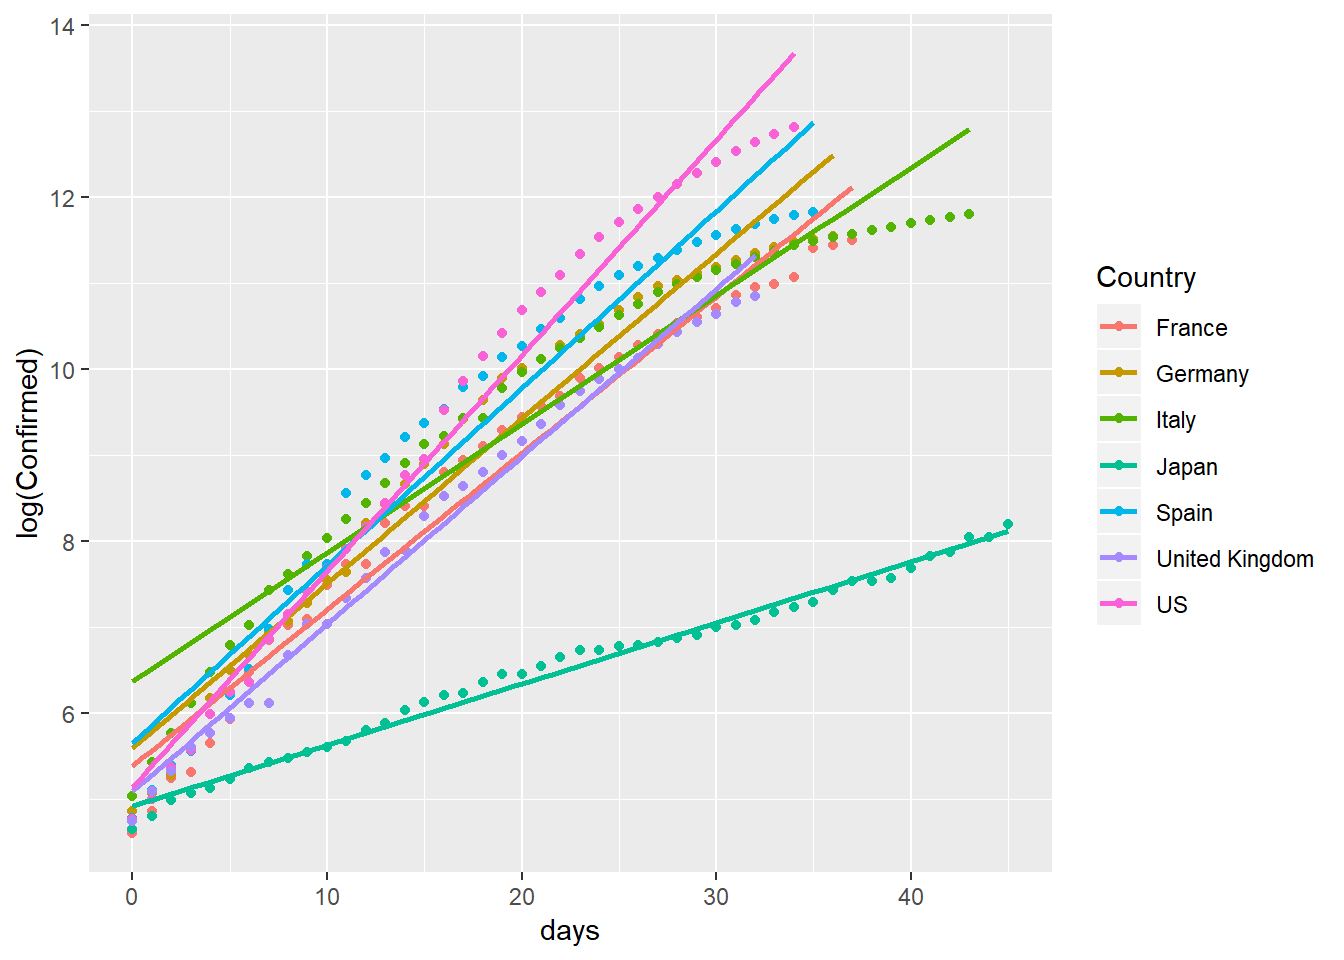
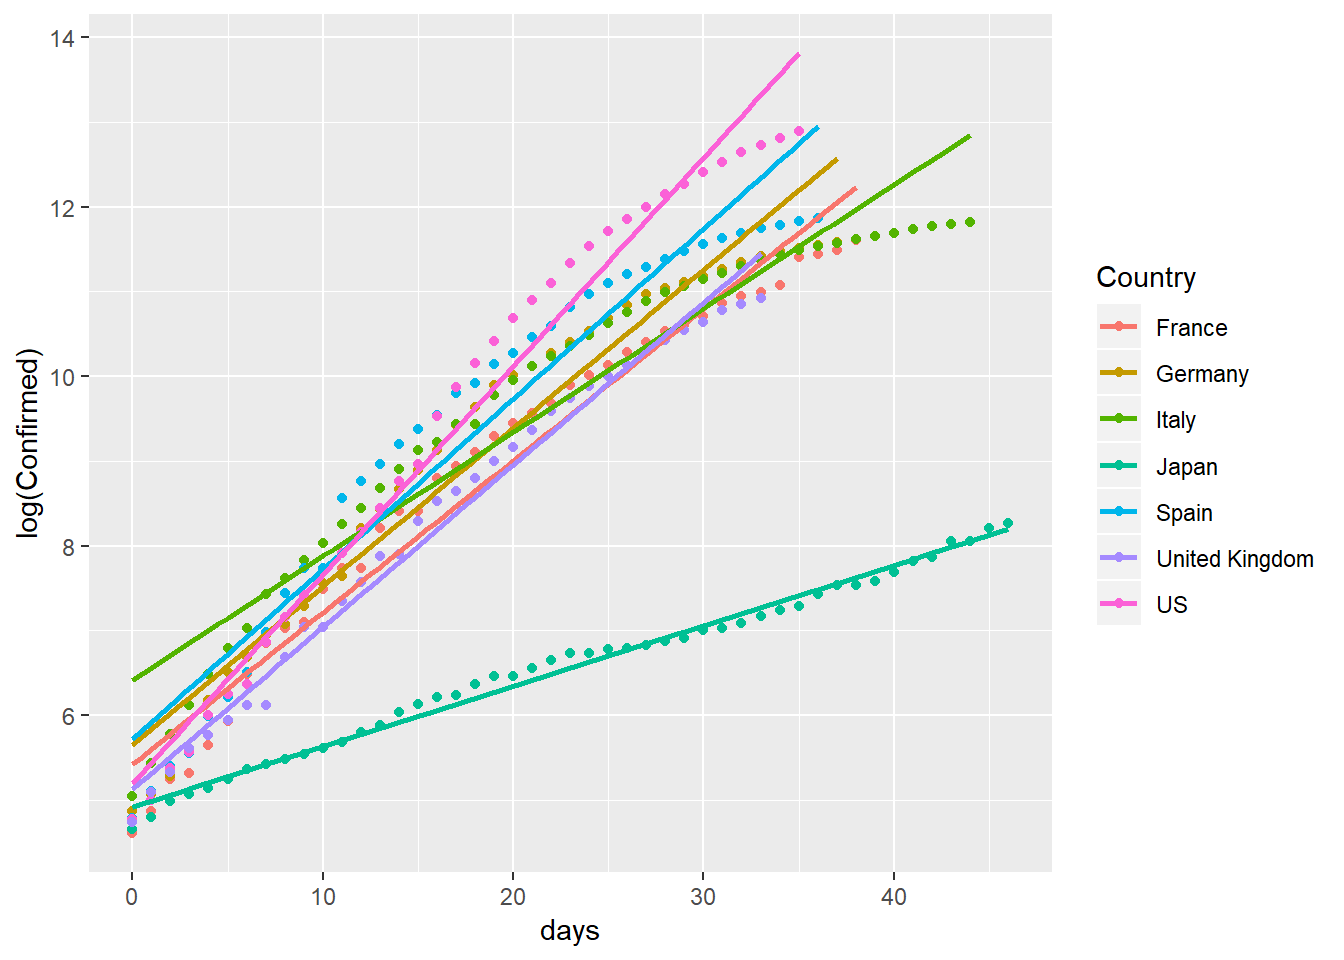
from rstudio

diff --git a/content/post/2020-04-08-coronavirus-japan.html b/content/post/2020-04-08-coronavirus-japan.html
@@ -14,7 +14,7 @@ tags:
 <h1>感染上位国の感染者数増加率</h1>
 <p>感染者数の増加を、イタリア、スペイン、アメリカ、フランス、イギリス、イギリス（感染者数上位国）
 と日本とを比較する。</p>
-<p>モデルは次の通りである。感染者数 <span class="math inline">\(y_t\)</span> を日付 <span class="math inline">\(t\)</span> に対する増加関数と考える。すなわち、時間増分<span class="math inline">\(dt\)</span>当たりの感染者数の増分は<span class="math inline">\(dy_t\)</span>であり、ここで感染者数の増加率を <span class="math inline">\(dy_t/dt \over y_t\)</span> と表す。感染者数の増加率を一定<span class="math inline">\(b\)</span>と仮定する。このとき、次式が成立する。
+<p>モデルは次の通りである。感染者数 <span class="math inline">\(y_t\)</span> を日付 <span class="math inline">\(t\)</span> の増加関数と考える。すなわち、時間増分<span class="math inline">\(dt\)</span>当たりの感染者数の増分は<span class="math inline">\(dy_t\)</span>であり、ここで感染者数の増加率を <span class="math inline">\(dy_t/dt \over y_t\)</span> と表す。感染者数の増加率を一定<span class="math inline">\(b\)</span>と仮定する。このとき、次式が成立する。
 <span class="math display">\[
 {dy_t/dt \over y_t} =b
 \]</span>
@@ -35,7 +35,7 @@ tags:
 <span class="math display">\[
 y_T=y_0 \exp(bT)
 \]</span>
-時間の経過で増加する感染者数の初期値<span class="math inline">\(y_0\)</span>に対し、<span class="math inline">\(T\)</span>時間が経過後の感染者数は<span class="math inline">\(y_T\)</span>である。この式を適用が許されれば、 <span class="math inline">\(\log y_T=\log y_0+bt\)</span> と変換できる。<span class="math inline">\(b\)</span>は増加率を表し、<span class="math inline">\(\log y_T\)</span>と<span class="math inline">\(T\)</span> との間に直線関係が見られれば、およそ増加率は一定と考えてよい。</p>
+時間の経過で増加する感染者数の初期値<span class="math inline">\(y_0\)</span>に対し、<span class="math inline">\(T\)</span>時間が経過後の感染者数は<span class="math inline">\(y_T\)</span>である。この式の適用が許されれば、 <span class="math inline">\(\log y_T=\log y_0+bt\)</span> と変換できる。<span class="math inline">\(b\)</span>は増加率を表し、<span class="math inline">\(\log y_T\)</span>と<span class="math inline">\(T\)</span> との間に直線関係が見られれば、およそ増加率は一定と考えてよい。</p>
 </div>
 <div id="section-1" class="section level1">
 <h1>時間経過と感染者数の対数値</h1>
@@ -68,23 +68,23 @@ summary(mf)</code></pre>
 ## Call:
 ## plm(formula = log(Confirmed) ~ days, data = c19p, model = &quot;within&quot;)
 ## 
-## Unbalanced Panel: n = 6, T = 33-44, N = 223
+## Unbalanced Panel: n = 6, T = 34-45, N = 229
 ## 
 ## Residuals:
 ##     Min.  1st Qu.   Median  3rd Qu.     Max. 
-## -1.84979 -0.34789  0.10270  0.45815  0.79941 
+## -1.89198 -0.36795  0.12215  0.46747  0.82002 
 ## 
 ## Coefficients:
 ##       Estimate Std. Error t-value  Pr(&gt;|t|)    
-## days 0.1889147  0.0034651   54.52 &lt; 2.2e-16 ***
+## days 0.1853121  0.0034373  53.912 &lt; 2.2e-16 ***
 ## ---
 ## Signif. codes:  0 &#39;***&#39; 0.001 &#39;**&#39; 0.01 &#39;*&#39; 0.05 &#39;.&#39; 0.1 &#39; &#39; 1
 ## 
-## Total Sum of Squares:    1008
-## Residual Sum of Squares: 68.285
-## R-Squared:      0.93225
-## Adj. R-Squared: 0.93037
-## F-statistic: 2972.39 on 1 and 216 DF, p-value: &lt; 2.22e-16</code></pre>
+## Total Sum of Squares:    1052.5
+## Residual Sum of Squares: 74.688
+## R-Squared:      0.92904
+## Adj. R-Squared: 0.92712
+## F-statistic: 2906.52 on 1 and 222 DF, p-value: &lt; 2.22e-16</code></pre>
 <p>推定結果では、増加率<span class="math inline">\(b\)</span>の推定値は0.19であり、過去のデータから平均的には毎日19パーセントの勢いで新規感染者が増えていると考えられる。</p>
 <p>#　日本の感染増加率の推定</p>
 <p>次いで、日本のデータに限って<span class="math inline">\(b\)</span>の推定を行う。推定結果は次の通りである。</p>
@@ -97,18 +97,18 @@ summary(mj)</code></pre>
 ## 
 ## Residuals:
 ##      Min       1Q   Median       3Q      Max 
-## -0.27089 -0.07220 -0.01655  0.08174  0.18582 
+## -0.26775 -0.07161 -0.01753  0.07613  0.18498 
 ## 
 ## Coefficients:
 ##             Estimate Std. Error t value Pr(&gt;|t|)    
-## (Intercept) 4.924854   0.030281  162.64   &lt;2e-16 ***
-## days        0.071012   0.001159   61.27   &lt;2e-16 ***
+## (Intercept) 4.921708   0.029808   165.1   &lt;2e-16 ***
+## days        0.071222   0.001116    63.8   &lt;2e-16 ***
 ## ---
 ## Signif. codes:  0 &#39;***&#39; 0.001 &#39;**&#39; 0.01 &#39;*&#39; 0.05 &#39;.&#39; 0.1 &#39; &#39; 1
 ## 
-## Residual standard error: 0.1044 on 44 degrees of freedom
-## Multiple R-squared:  0.9884, Adjusted R-squared:  0.9882 
-## F-statistic:  3753 on 1 and 44 DF,  p-value: &lt; 2.2e-16</code></pre>
+## Residual standard error: 0.1038 on 45 degrees of freedom
+## Multiple R-squared:  0.9891, Adjusted R-squared:  0.9888 
+## F-statistic:  4070 on 1 and 45 DF,  p-value: &lt; 2.2e-16</code></pre>
 <p>日本のデータからは、感染者数の増加率<span class="math inline">\(b\)</span>は0.07と推定される。これは欧米の4割程度の大きさであり、その理由は私には分からない。日本人と欧米人との間に社会動態の違いがあるか、あるいは欧米に比べ日本の検査数が少ないことと関係するのか、いくつか探るべき理由はあると思われる。</p>
 </div>
 <div id="section-3" class="section level1">

diff --git a/public/post/2020/04/08/forecast-coronavirus-spread/index.html b/public/post/2020/04/08/forecast-coronavirus-spread/index.html
@@ -39,7 +39,7 @@
 <h1>感染上位国の感染者数増加率</h1>
 <p>感染者数の増加を、イタリア、スペイン、アメリカ、フランス、イギリス、イギリス（感染者数上位国）
 と日本とを比較する。</p>
-<p>モデルは次の通りである。感染者数 <span class="math inline">\(y_t\)</span> を日付 <span class="math inline">\(t\)</span> に対する増加関数と考える。すなわち、時間増分<span class="math inline">\(dt\)</span>当たりの感染者数の増分は<span class="math inline">\(dy_t\)</span>であり、ここで感染者数の増加率を <span class="math inline">\(dy_t/dt \over y_t\)</span> と表す。感染者数の増加率を一定<span class="math inline">\(b\)</span>と仮定する。このとき、次式が成立する。
+<p>モデルは次の通りである。感染者数 <span class="math inline">\(y_t\)</span> を日付 <span class="math inline">\(t\)</span> の増加関数と考える。すなわち、時間増分<span class="math inline">\(dt\)</span>当たりの感染者数の増分は<span class="math inline">\(dy_t\)</span>であり、ここで感染者数の増加率を <span class="math inline">\(dy_t/dt \over y_t\)</span> と表す。感染者数の増加率を一定<span class="math inline">\(b\)</span>と仮定する。このとき、次式が成立する。
 <span class="math display">\[
 {dy_t/dt \over y_t} =b
 \]</span>
@@ -60,7 +60,7 @@
 <span class="math display">\[
 y_T=y_0 \exp(bT)
 \]</span>
-時間の経過で増加する感染者数の初期値<span class="math inline">\(y_0\)</span>に対し、<span class="math inline">\(T\)</span>時間が経過後の感染者数は<span class="math inline">\(y_T\)</span>である。この式を適用が許されれば、 <span class="math inline">\(\log y_T=\log y_0+bt\)</span> と変換できる。<span class="math inline">\(b\)</span>は増加率を表し、<span class="math inline">\(\log y_T\)</span>と<span class="math inline">\(T\)</span> との間に直線関係が見られれば、およそ増加率は一定と考えてよい。</p>
+時間の経過で増加する感染者数の初期値<span class="math inline">\(y_0\)</span>に対し、<span class="math inline">\(T\)</span>時間が経過後の感染者数は<span class="math inline">\(y_T\)</span>である。この式の適用が許されれば、 <span class="math inline">\(\log y_T=\log y_0+bt\)</span> と変換できる。<span class="math inline">\(b\)</span>は増加率を表し、<span class="math inline">\(\log y_T\)</span>と<span class="math inline">\(T\)</span> との間に直線関係が見られれば、およそ増加率は一定と考えてよい。</p>
 </div>
 <div id="section-1" class="section level1">
 <h1>時間経過と感染者数の対数値</h1>
@@ -93,23 +93,23 @@ summary(mf)</code></pre>
 ## Call:
 ## plm(formula = log(Confirmed) ~ days, data = c19p, model = &quot;within&quot;)
 ## 
-## Unbalanced Panel: n = 6, T = 33-44, N = 223
+## Unbalanced Panel: n = 6, T = 34-45, N = 229
 ## 
 ## Residuals:
 ##     Min.  1st Qu.   Median  3rd Qu.     Max. 
-## -1.84979 -0.34789  0.10270  0.45815  0.79941 
+## -1.89198 -0.36795  0.12215  0.46747  0.82002 
 ## 
 ## Coefficients:
 ##       Estimate Std. Error t-value  Pr(&gt;|t|)    
-## days 0.1889147  0.0034651   54.52 &lt; 2.2e-16 ***
+## days 0.1853121  0.0034373  53.912 &lt; 2.2e-16 ***
 ## ---
 ## Signif. codes:  0 &#39;***&#39; 0.001 &#39;**&#39; 0.01 &#39;*&#39; 0.05 &#39;.&#39; 0.1 &#39; &#39; 1
 ## 
-## Total Sum of Squares:    1008
-## Residual Sum of Squares: 68.285
-## R-Squared:      0.93225
-## Adj. R-Squared: 0.93037
-## F-statistic: 2972.39 on 1 and 216 DF, p-value: &lt; 2.22e-16</code></pre>
+## Total Sum of Squares:    1052.5
+## Residual Sum of Squares: 74.688
+## R-Squared:      0.92904
+## Adj. R-Squared: 0.92712
+## F-statistic: 2906.52 on 1 and 222 DF, p-value: &lt; 2.22e-16</code></pre>
 <p>推定結果では、増加率<span class="math inline">\(b\)</span>の推定値は0.19であり、過去のデータから平均的には毎日19パーセントの勢いで新規感染者が増えていると考えられる。</p>
 <p>#　日本の感染増加率の推定</p>
 <p>次いで、日本のデータに限って<span class="math inline">\(b\)</span>の推定を行う。推定結果は次の通りである。</p>
@@ -122,18 +122,18 @@ summary(mj)</code></pre>
 ## 
 ## Residuals:
 ##      Min       1Q   Median       3Q      Max 
-## -0.27089 -0.07220 -0.01655  0.08174  0.18582 
+## -0.26775 -0.07161 -0.01753  0.07613  0.18498 
 ## 
 ## Coefficients:
 ##             Estimate Std. Error t value Pr(&gt;|t|)    
-## (Intercept) 4.924854   0.030281  162.64   &lt;2e-16 ***
-## days        0.071012   0.001159   61.27   &lt;2e-16 ***
+## (Intercept) 4.921708   0.029808   165.1   &lt;2e-16 ***
+## days        0.071222   0.001116    63.8   &lt;2e-16 ***
 ## ---
 ## Signif. codes:  0 &#39;***&#39; 0.001 &#39;**&#39; 0.01 &#39;*&#39; 0.05 &#39;.&#39; 0.1 &#39; &#39; 1
 ## 
-## Residual standard error: 0.1044 on 44 degrees of freedom
-## Multiple R-squared:  0.9884, Adjusted R-squared:  0.9882 
-## F-statistic:  3753 on 1 and 44 DF,  p-value: &lt; 2.2e-16</code></pre>
+## Residual standard error: 0.1038 on 45 degrees of freedom
+## Multiple R-squared:  0.9891, Adjusted R-squared:  0.9888 
+## F-statistic:  4070 on 1 and 45 DF,  p-value: &lt; 2.2e-16</code></pre>
 <p>日本のデータからは、感染者数の増加率<span class="math inline">\(b\)</span>は0.07と推定される。これは欧米の4割程度の大きさであり、その理由は私には分からない。日本人と欧米人との間に社会動態の違いがあるか、あるいは欧米に比べ日本の検査数が少ないことと関係するのか、いくつか探るべき理由はあると思われる。</p>
 </div>
 <div id="section-3" class="section level1">
